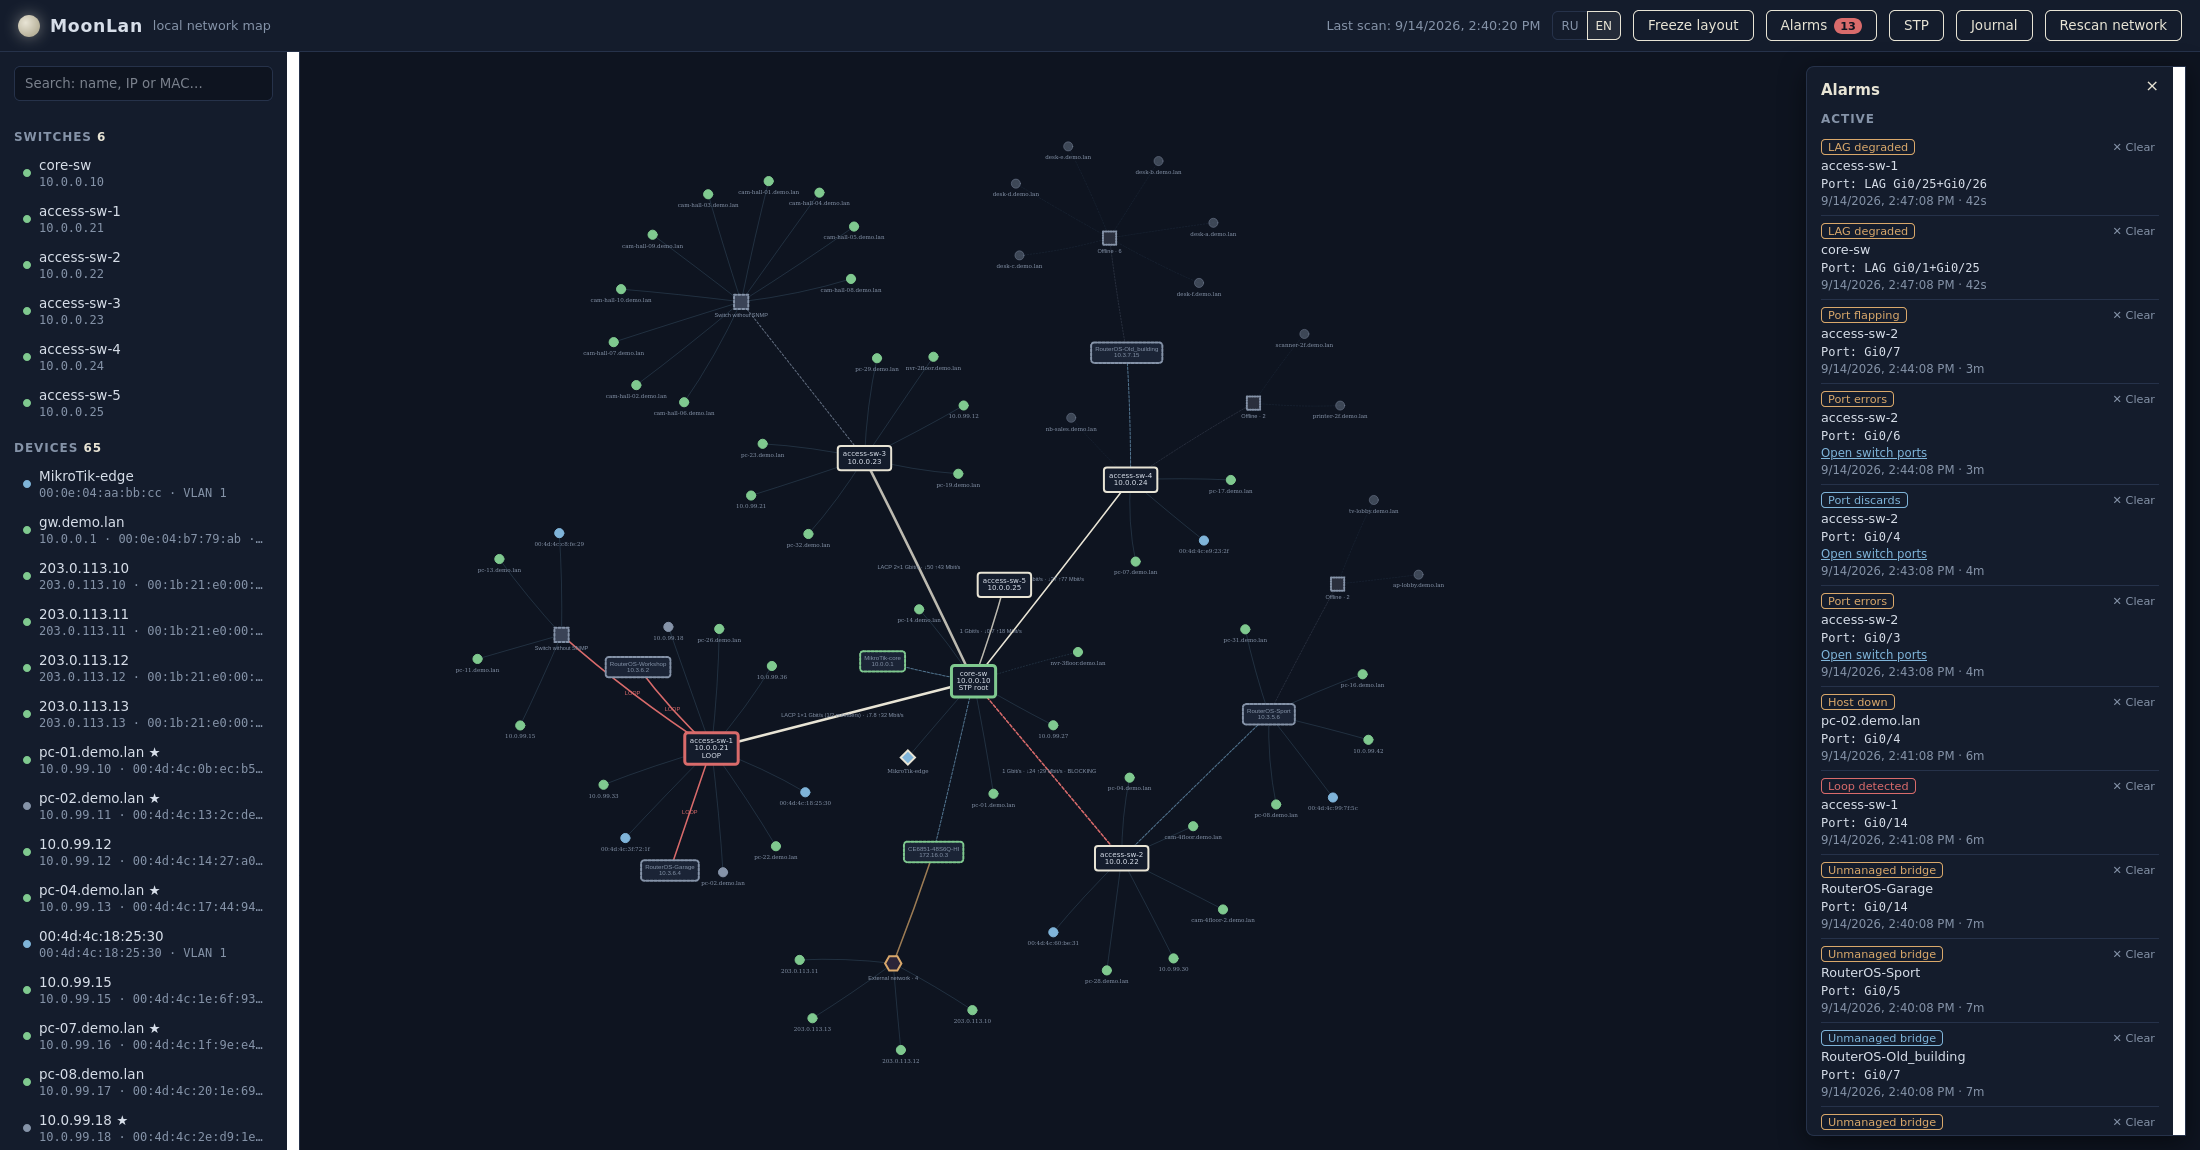
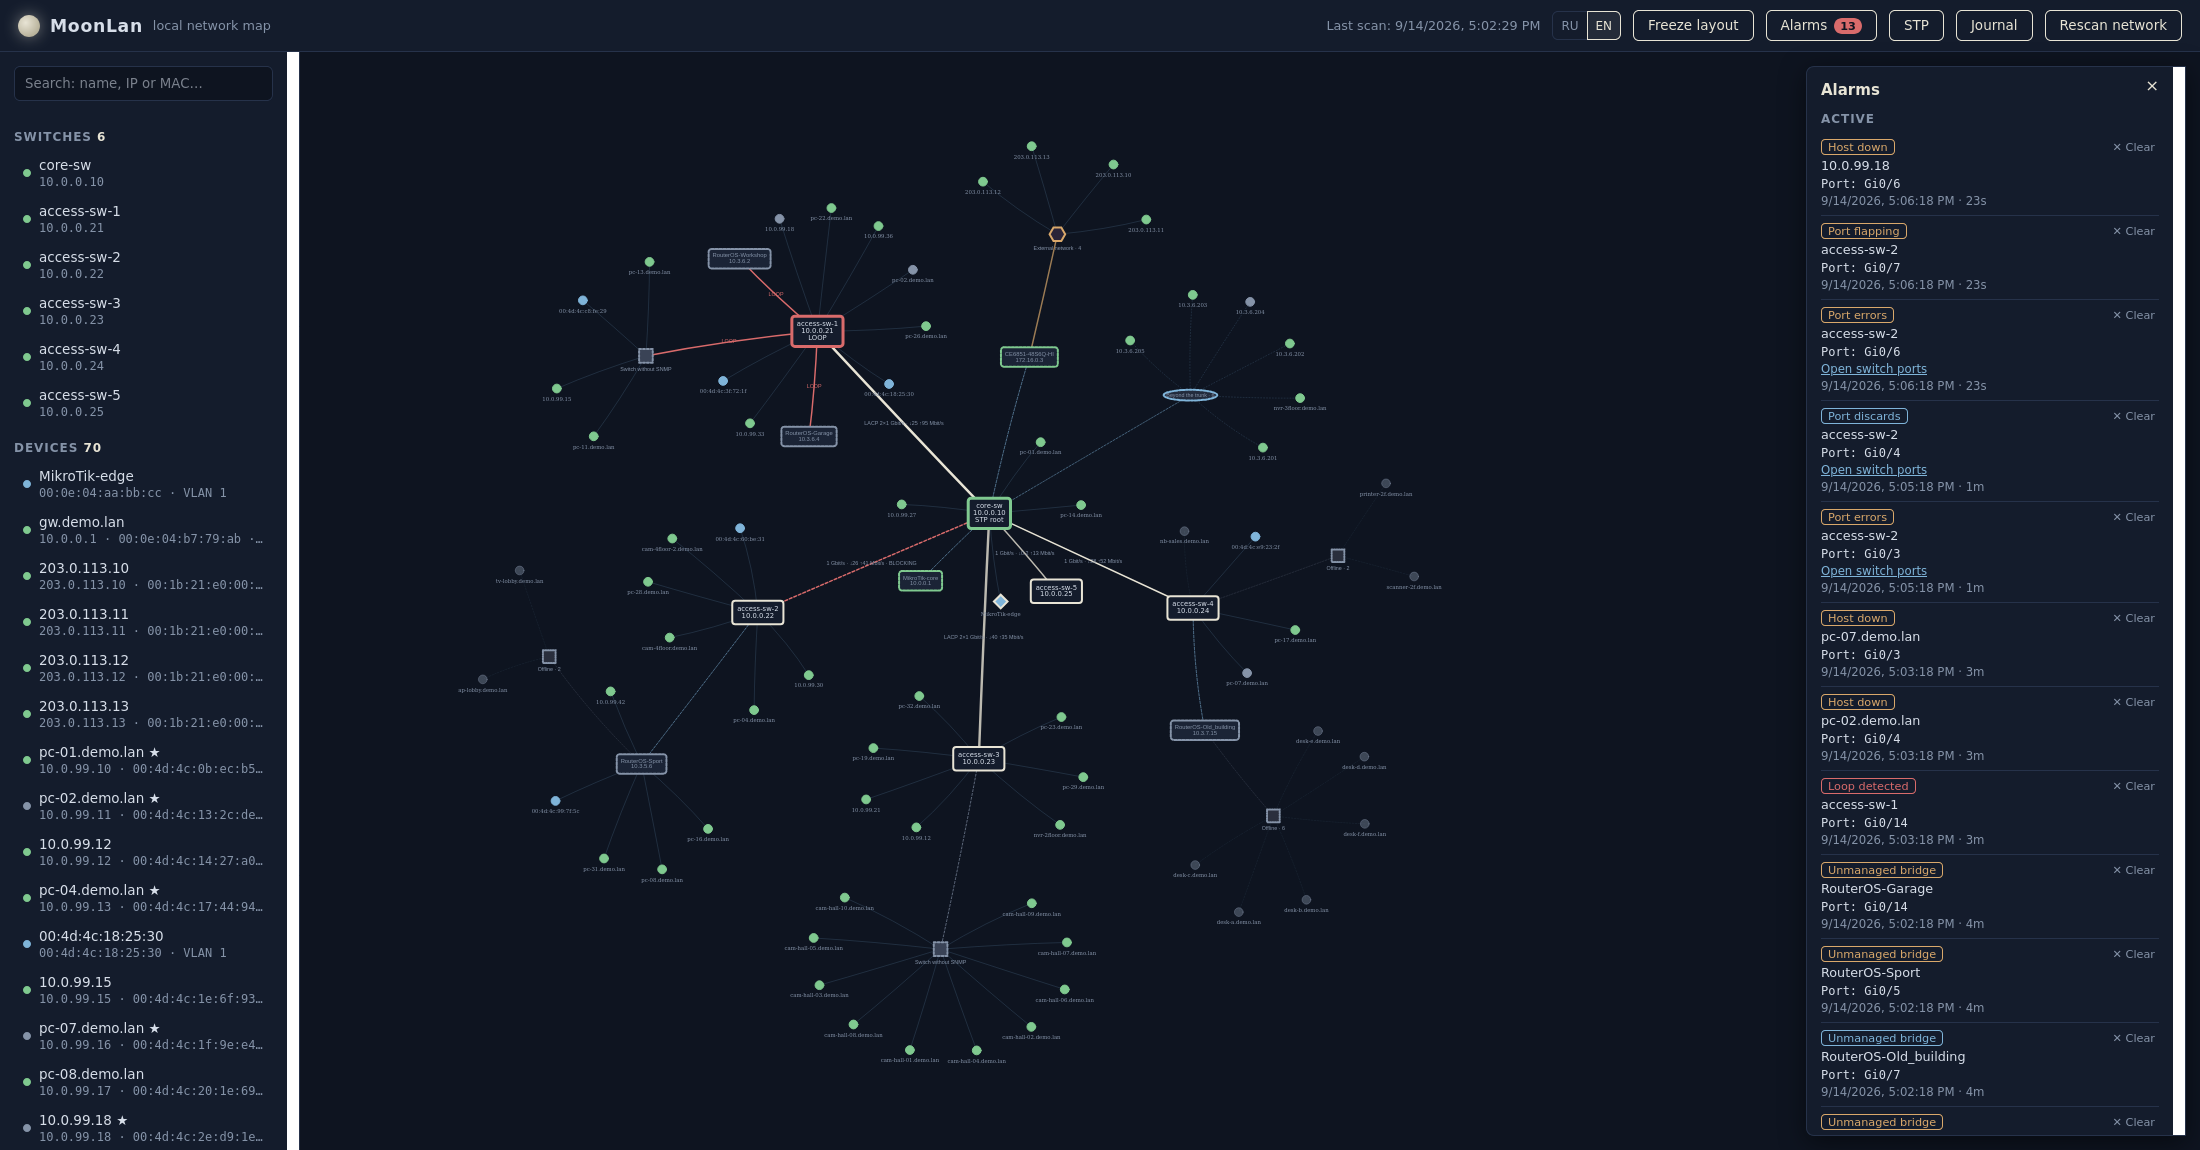
v0.6.10: devices seen through a trunk are grouped beyond it, not on it
Version 0.6.10, a paragraph in both changelogs, the roadmap row, and
the README feature line in both languages.

Screenshots re-shot on the demo, which now carries the case: five
devices of a segment behind the core's trunk to access-sw-3, drawn as
one node past the cable with the real switch on the same port beside
it. Demo only — the map in a public README is not the place for a real
network, which is the whole reason the demo exists.

This is the last patch of the v0.6 branch. The tag is the operator's
to place, after the release has run on the production network.

diff --git a/moonlan/__init__.py b/moonlan/__init__.py
@@ -1,3 +1,3 @@
 """MoonLan — builds a local network map from SNMP data."""
 
-__version__ = "0.6.9"
+__version__ = "0.6.10"

diff --git a/docs/ROADMAP.md b/docs/ROADMAP.md
@@ -25,6 +25,7 @@
 - [x] **v0.6.7** Loop Detection по приватным MIB: профили моделей по `sysObjectID` (встроены DGS-1210-26 Rev.F1, DES-1210-28/ME и DES-3526, свои добавляются в `loop_detection.profiles`); опрос в цикле счётчиков, а не в скане; тревоги `loop_detected` (critical, сырое значение статуса в тексте) и `loop_detection_disabled` (info); правило «норма известна, всё остальное — петля»; модель без профиля честно показывается как «не сообщает по SNMP», а не как «петель нет»; колонка «Петля» в панели портов, красное ребро и обводка узла на карте, `diag --loop`
 - [x] **v0.6.8** Опознание модели до чтения её данных: `_get` возвращает `None` на `noSuchObject`/`noSuchInstance`/`endOfMibView` (в SNMPv2c несуществующий объект приходит успешным ответом, из-за чего проба ветки удавалась на любом устройстве и трём коммутаторам приписывалось «LBD выключен»); профили Loop Detection ключуются наблюдёнными `sysObjectID`, а не корнями веток; «неизвестно» больше не печатается как «выключено», а пустая таблица не считается расхождением нумерации; агрегат `dot3adAggPortAttachedAggID`, которого нет в таблице интерфейсов (или в который вошёл весь коммутатор), отбрасывается с WARNING вместо фантомного транка и вечной `lag_degraded`; коммутаторы из `switches:` и `routers:` больше не поднимают `unmanaged_bridge_detected` о самих себе; пустой `sysName` не даёт подпись из IP дважды; `docs/diag/` убран из репозитория, добавлены `diag --anonymize` и обезличенные образцы в `docs/diag_example/`
 - [x] **v0.6.9** Устройство, увиденное на аплинке, не находится за ним: в заявке на размещение первым решает направление порта, вторым — глубина (самый глубокий коммутатор перестал забирать всё, что видит со своего аплинка); магистрали корня считаются нисходящими; MAC, все сведения о котором пришли с аплинков, уходит в «Вне карты», а не подвешивается на порт, за которым его точно нет; в карточке написано, почему выбрана именно эта магистраль. Первые тесты на `build_topology`: этот дефект и обе прошлые регрессии правила. Подготовка релиза: `CHANGELOG.md` и `CHANGELOG_RU.md` от v0.5.8, свежие скриншоты с демо-режима
+- [x] **v0.6.10** Устройства, видимые только через магистраль, собираются в один узел «За магистралью · N» за кабелем вместо россыпи точек на нём (порог `trunk_group_threshold`, по умолчанию 3); узел не утверждает, что за портом коммутатор, и не подключается к коммутатору, который мы опрашиваем; приблизительная группа имеет приоритет над офлайн-группой того же порта и считает замолчавших внутри себя. Подготовка релиза v0.6
 - [ ] **v0.7** Экспорт схемы в PDF и Draw.io (diagrams.net); импорт дополнительных сведений по MAC-адресам
 - [ ] **v0.7** Контекстное меню узла с диагностическими действиями (ping, traceroute, ссылки на SSH/RDP/веб-интерфейс устройства, пользовательские команды из config) — аналог контекстного меню LanTopoLog
 - [ ] **v0.8** Инвентаризация компьютеров через WMI/WinRM

diff --git a/CHANGELOG_RU.md b/CHANGELOG_RU.md
@@ -6,6 +6,23 @@
 
 English version — [CHANGELOG.md](CHANGELOG.md).
 
+## v0.6.10 — 14.09.2026
+
+Устройства, видимые через магистраль, собираются за ней, а не на ней.
+Устройство, которое видно только через магистраль, размещается на ней
+с пометкой «приблизительно» — порт известен, место за ним нет, — и
+двадцать таких, нарисованных по точке, превращают порт в подобие
+коммутатора с двадцатью компьютерами, вперемешку с его настоящими
+соседями. Теперь у них есть контейнер: один узел «За магистралью · N»
+за кабелем, раскрывающийся в список того, что там. Это намеренно не
+«коммутатор без SNMP»: тот узел утверждает, что коммутатор есть, а
+здесь никто не знает, что там. Псевдо-коммутаторы на магистрали
+по-прежнему не создаются никогда — много MAC на магистрали и есть
+назначение магистрали. Группа подключается к тому, что стоит на этом
+кабеле, если там что-то стоит, и никогда — к коммутатору, который
+MoonLan опрашивает: будь устройства за ним, они были бы на его
+нисходящих портах. Порог — `trunk_group_threshold`, по умолчанию 3.
+
 ## v0.6.9 — 14.09.2026
 
 Устройство, увиденное на аплинке, не находится за ним. Коммутатор,

diff --git a/README_RU.md b/README_RU.md
@@ -16,7 +16,7 @@
 
 *Панель тревог: ошибки портов, отброшенные пакеты и сбои в работе хостов с возможностью перехода к таблице портов коммутатора в один клик.*
 
-## Возможности (v0.6.9)
+## Возможности (v0.6.10)
 
 - Опрос коммутаторов по SNMP v2c: имя устройства, порты, скорости, статусы.
 - Чтение таблиц MAC-адресов (BRIDGE-MIB и Q-BRIDGE-MIB) с каждого
@@ -236,6 +236,7 @@
 | v0.6.7 ✓ | Loop Detection по приватным MIB производителей, честное «модель не сообщает» |
 | v0.6.8 ✓ | Опознание модели до чтения; диагностика, которой можно поделиться |
 | v0.6.9 ✓ | Устройство, увиденное на аплинке, не находится за ним; тесты на размещение |
+| v0.6.10 ✓ | Устройства, видимые через магистраль, собираются за ней, а не на ней |
 | v0.7   | Экспорт в PDF и Draw.io, импорт сведений по MAC-адресам |
 | v0.8   | Инвентаризация Windows-компьютеров (WMI/WinRM) |
 

diff --git a/CHANGELOG.md b/CHANGELOG.md
@@ -6,6 +6,23 @@ for before the next one started.
 
 Русская версия — [CHANGELOG_RU.md](CHANGELOG_RU.md).
 
+## v0.6.10 — 2026-09-14
+
+Devices seen through a trunk are grouped beyond it, not on it. A
+device visible only through a trunk is placed on that trunk and marked
+approximate — the port is right, the place behind it is unknown — and
+twenty of them drawn one dot at a time make the port look like twenty
+computers plugged into the switch, mixed in with its real neighbours.
+They now get a container: one "Beyond the trunk · N" node past the
+cable, which expands into the list of what is out there. It is
+deliberately not a "switch without SNMP": that node claims a switch is
+there, and here nobody knows what is. Pseudo-switches are still never
+created on a trunk — many MACs on a trunk is what a trunk is for. The
+group hangs off whatever stands on that cable when something does, and
+never off a switch MoonLan polls: if the devices were behind it they
+would be on its downlink ports. Threshold: `trunk_group_threshold`,
+default 3.
+
 ## v0.6.9 — 2026-09-14
 
 A device seen on an uplink is not behind it. The switch that reports a

diff --git a/README.md b/README.md
@@ -16,7 +16,7 @@ An open-source alternative to LanTopoLog. MIT license.
 
 *Alarm panel: port errors, discards and host outages with one-click access to the switch port table.*
 
-## Features (v0.6.9)
+## Features (v0.6.10)
 
 - SNMP v2c polling of switches: device name, ports, speeds, statuses.
 - MAC address tables (BRIDGE-MIB and Q-BRIDGE-MIB) from every switch,
@@ -222,6 +222,7 @@ Version history: [CHANGELOG.md](CHANGELOG.md)
 | v0.6.7 ✓| Loop Detection from the vendors' private MIBs, honest unsupported state |
 | v0.6.8 ✓| Identify the model before reading it; diagnostics that can be shared |
 | v0.6.9 ✓| A device seen on an uplink is not behind it; host placement under test |
+| v0.6.10 ✓| Devices seen through a trunk are grouped beyond it, not on it |
 | v0.7    | Export to PDF and Draw.io, MAC address info import |
 | v0.8    | Windows computer inventory (WMI/WinRM) |
 
